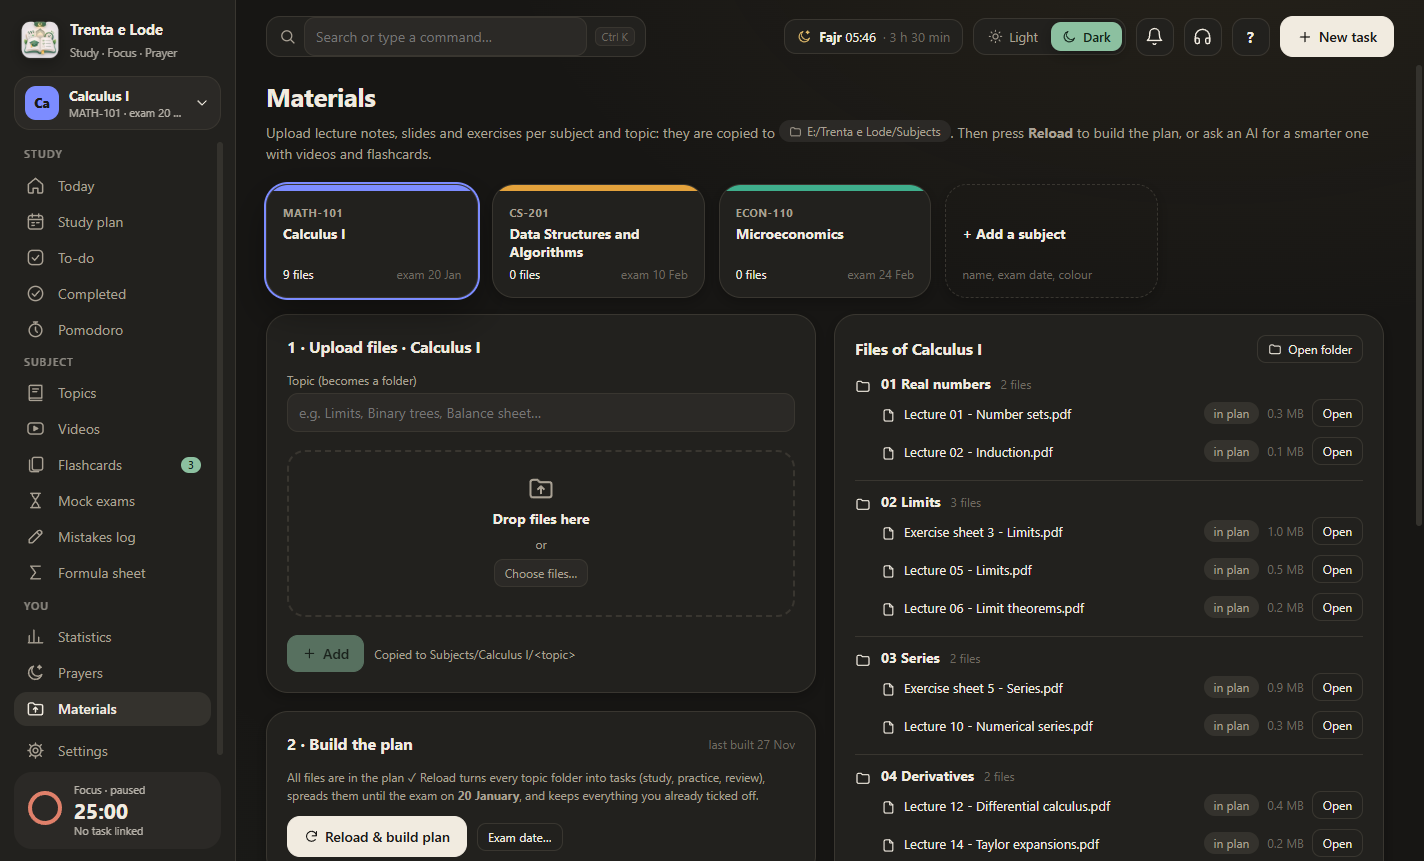
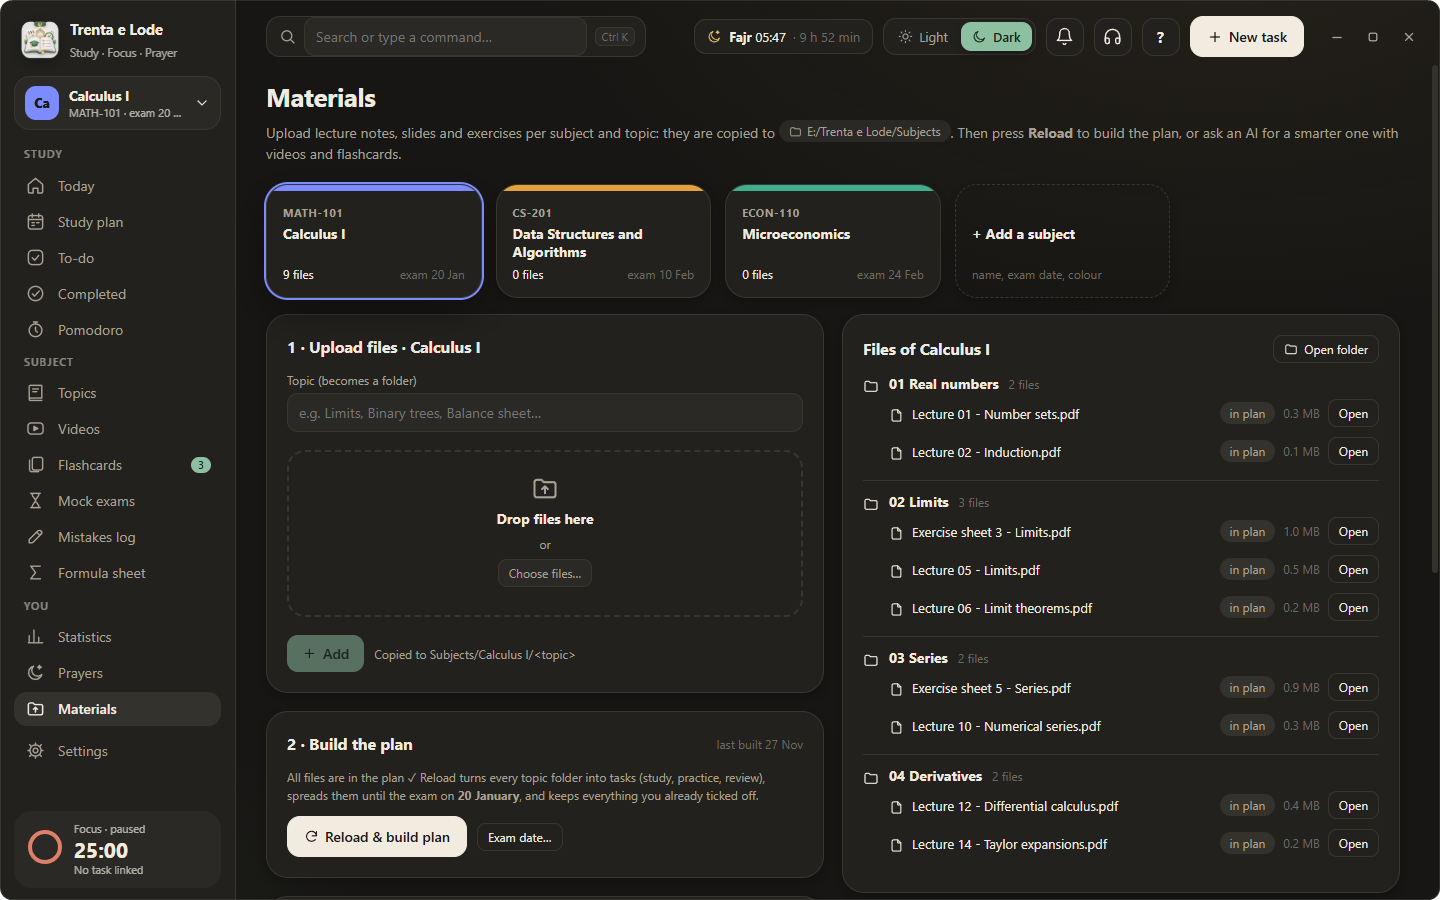
Use an opaque window with shaped corners; new README screenshots
The transparent window from 1.1.0 kept losing mouse input on Windows: after
minimise/reopen (worked around in 1.1.1) and also in other situations we
could not reproduce on demand, where the window still moved by its top bar
but the page received no clicks. The window is now opaque; its corners are
rounded with a window shape (setShape), recomputed on resize and squared
when maximised or in full screen. This also brings back native maximise
and resizing from the window edges, and the 1 px resize workaround is gone.

Screenshot mode no longer turns the frameless window off and captures at
1440x900, so the README screenshots show the new top bar with the window
buttons. They are retaken with the same demo data and given the window's
rounded corners; the full-screen focus shot keeps square edges.

diff --git a/main.js b/main.js
@@ -37,9 +37,9 @@ const OV_PRELOAD = path.join(__dirname, 'preload-overlay.js');
 const ICON = path.join(__dirname, 'build', 'icon.png');
 
 // ─── Window: size, frameless rounded window (Windows), start at login ────
-// On Windows the window has no title bar: the page draws rounded corners and its own min/max/close buttons.
-// macOS and Linux keep the native frame.
-const FRAMELESS = process.platform === 'win32' && !process.env.TL_SHOT;
+// On Windows the window has no title bar: the page draws its own min/max/close buttons and the window's corners are
+// rounded with a window shape. macOS and Linux keep the native frame.
+const FRAMELESS = process.platform === 'win32';
 // Big screens (3440×1440 ultrawide and up) get a 1730×1100 window, others 1440×900; never larger than the screen.
 function sizeFor(d) {
   const sf = d.scaleFactor || 1, wa = d.workArea;
@@ -48,30 +48,29 @@ function sizeFor(d) {
   const h = Math.min(wide ? Math.round(1100 / sf) : 900, wa.height);
   return { width: w, height: h, x: Math.round(wa.x + (wa.width - w) / 2), y: Math.round(wa.y + (wa.height - h) / 2) };
 }
-let maxed = null; // bounds before our own maximise (transparent windows can't use the native one)
-const winState = () => win && !win.isDestroyed() && win.webContents.send('win:state', { frameless: FRAMELESS, max: FRAMELESS ? !!maxed || win.isFullScreen() : win.isMaximized() || win.isFullScreen() });
-function toggleMax() {
-  if (!win) return;
-  if (!FRAMELESS) win.isMaximized() ? win.unmaximize() : win.maximize();
-  else if (maxed) { win.setBounds(maxed); maxed = null; }
-  else { maxed = win.getBounds(); win.setBounds(screen.getDisplayMatching(maxed).workArea); }
-  winState();
+// The window is opaque, not transparent: Electron's transparent windows on Windows can stop receiving clicks
+// (after being hidden and shown again, and in other cases we could not pin down).
+const RADIUS = 12;
+function roundedShape(w, h, r) {
+  const rows = [];
+  for (let y = 0; y < r; y++) {
+    const dy = r - y - 0.5, inset = Math.round(r - Math.sqrt(r * r - dy * dy));
+    rows.push({ x: inset, y, width: w - 2 * inset, height: 1 }, { x: inset, y: h - 1 - y, width: w - 2 * inset, height: 1 });
+  }
+  rows.push({ x: 0, y: r, width: w, height: h - 2 * r });
+  return rows;
 }
-// Electron/Chromium bug with transparent windows on Windows: after the window is hidden (minimise → notch) and
-// shown again, Chromium leaves its input child window ("Chrome Legacy Window") hidden, so the page gets no mouse
-// events at all (only the drag areas still work). Resizing by 1 px and back makes Chromium show it again.
-let reviveT = null, reviving = false;
-function revive() {
-  if (!FRAMELESS || reviving || !win || win.isDestroyed() || !win.isVisible() || win.isMinimized() || win.isFullScreen()) return;
-  reviving = true;
-  const b = win.getBounds();
-  win.setBounds({ ...b, width: b.width + 1 });
-  setTimeout(() => { if (win && !win.isDestroyed()) win.setBounds(b); reviving = false; }, 60);
+function applyShape() {
+  if (!FRAMELESS || !win || win.isDestroyed()) return;
+  const [w, h] = win.getSize();
+  win.setShape(win.isMaximized() || win.isFullScreen() || w < 3 * RADIUS || h < 3 * RADIUS ? [] : roundedShape(w, h, RADIUS));
 }
-// 'show' and 'restore' fire together when the window comes back: one nudge for both.
-const reviveSoon = () => { clearTimeout(reviveT); reviveT = setTimeout(revive, 120); };
+let shapeT = null;
+const shapeSoon = () => { clearTimeout(shapeT); shapeT = setTimeout(applyShape, 30); };
+const winState = () => { if (!win || win.isDestroyed()) return; win.webContents.send('win:state', { frameless: FRAMELESS, max: win.isMaximized() || win.isFullScreen() }); shapeSoon(); };
+function toggleMax() { if (win) win.isMaximized() ? win.unmaximize() : win.maximize(); }
 function refit() { // a monitor was plugged in or unplugged: resize for the screen the window is now on
-  const free = () => win && !maxed && !win.isMaximized() && !win.isFullScreen() && !saved;
+  const free = () => win && !win.isMaximized() && !win.isFullScreen() && !saved;
   if (free()) setTimeout(() => { if (free()) win.setBounds(sizeFor(screen.getDisplayMatching(win.getBounds()))); }, 900);
 }
 ipcMain.on('win', (_e, c) => { if (!win) return; if (c === 'min') win.minimize(); else if (c === 'max') toggleMax(); else if (c === 'close') win.close(); });
@@ -97,7 +96,7 @@ app.on('child-process-gone', (_e, d) => logLine('child process gone', d));
 function createWindow() {
   win = new BrowserWindow({
     ...sizeFor(screen.getDisplayNearestPoint(screen.getCursorScreenPoint())), minWidth: 380, minHeight: 300,
-    ...(FRAMELESS ? { frame: false, transparent: true, backgroundColor: '#00000000' } : { backgroundColor: '#171614' }),
+    ...(FRAMELESS ? { frame: false } : {}), backgroundColor: '#171614',
     title: 'Trenta e Lode', icon: ICON, autoHideMenuBar: true,
     webPreferences: { preload: path.join(__dirname, 'preload.js'), contextIsolation: true, nodeIntegration: false, backgroundThrottling: false },
   });
@@ -109,8 +108,9 @@ function createWindow() {
   win.on('responsive', () => logLine('window responsive again'));
   for (const ev of ['maximize', 'unmaximize', 'enter-full-screen', 'leave-full-screen']) win.on(ev, winState);
   win.on('minimize', () => { if (prefs.notch && !process.env.TL_SHOT) { win.hide(); showNotch(); } });
-  win.on('show', () => { hideNotch(); reviveSoon(); });
-  win.on('restore', () => { hideNotch(); reviveSoon(); });
+  win.on('show', hideNotch);
+  win.on('restore', hideNotch);
+  win.on('resize', shapeSoon);
   win.on('leave-full-screen', () => win.webContents.send('cmd', 'zen-exit'));
   win.on('closed', () => { win = null; [notch, pop].forEach(w => w && !w.isDestroyed() && w.destroy()); });
   // Links clicked inside the app open in the system browser.
@@ -648,6 +648,7 @@ ipcMain.handle('popup:history', () => popState.history);
 // TL_VIEWS=name[=urlencoded js],… ; "@wait-<ms>", "@notch…[=js]" captures the notch, "@pop-<kind>[=theme]" a popup.
 if (process.env.TL_SHOT) app.whenReady().then(async () => {
   const dir = process.env.TL_SHOT; fs.mkdirSync(dir, { recursive: true });
+  win.setBounds({ width: 1440, height: 900 });
   win.webContents.on('console-message', (e, lvl, msg, line, src) => { if (lvl >= 2) console.log('[renderer]', msg, src + ':' + line); });
   const wait = ms => new Promise(r => setTimeout(r, ms));
   await wait(3500);

diff --git a/src/styles.css b/src/styles.css
@@ -1,12 +1,9 @@
 /* Trenta e Lode · layout and components. Colours come from theme.css (Scuro / Chiaro). */
 * { box-sizing: border-box; }
 html, body { margin: 0; height: 100%; }
-/* Frameless, transparent window (Windows): the body is the rounded window. The gradient on <html> stops the body
-   background from spreading to the transparent canvas, so the corners stay see-through. */
-html { background: linear-gradient(transparent, transparent); }
-body.frameless { border-radius: 12px; clip-path: inset(0 round 12px); }
-body.frameless::after { content: ''; position: fixed; inset: 0; border-radius: inherit; border: 1px solid rgba(128,128,128,.22); pointer-events: none; z-index: 999; }
-body.frameless.maxed, body.frameless.zen { border-radius: 0; clip-path: none; } body.maxed::after, body.zen::after { display: none; }
+/* Frameless window (Windows): the main process rounds its corners with a window shape; this draws a faint edge along them. */
+body.frameless::after { content: ''; position: fixed; inset: 0; border-radius: 12px; border: 1px solid rgba(128,128,128,.22); pointer-events: none; z-index: 999; }
+body.maxed::after, body.zen::after { display: none; }
 body { display: flex; background: var(--bg); background-image: var(--bg-deco); color: var(--text); font: 14px/1.5 "Segoe UI Variable Text", "Segoe UI", system-ui, sans-serif; overflow: hidden; transition: background-color .3s, color .3s; }
 button, input, select, textarea { font: inherit; color: inherit; }
 a { color: var(--accent); }
